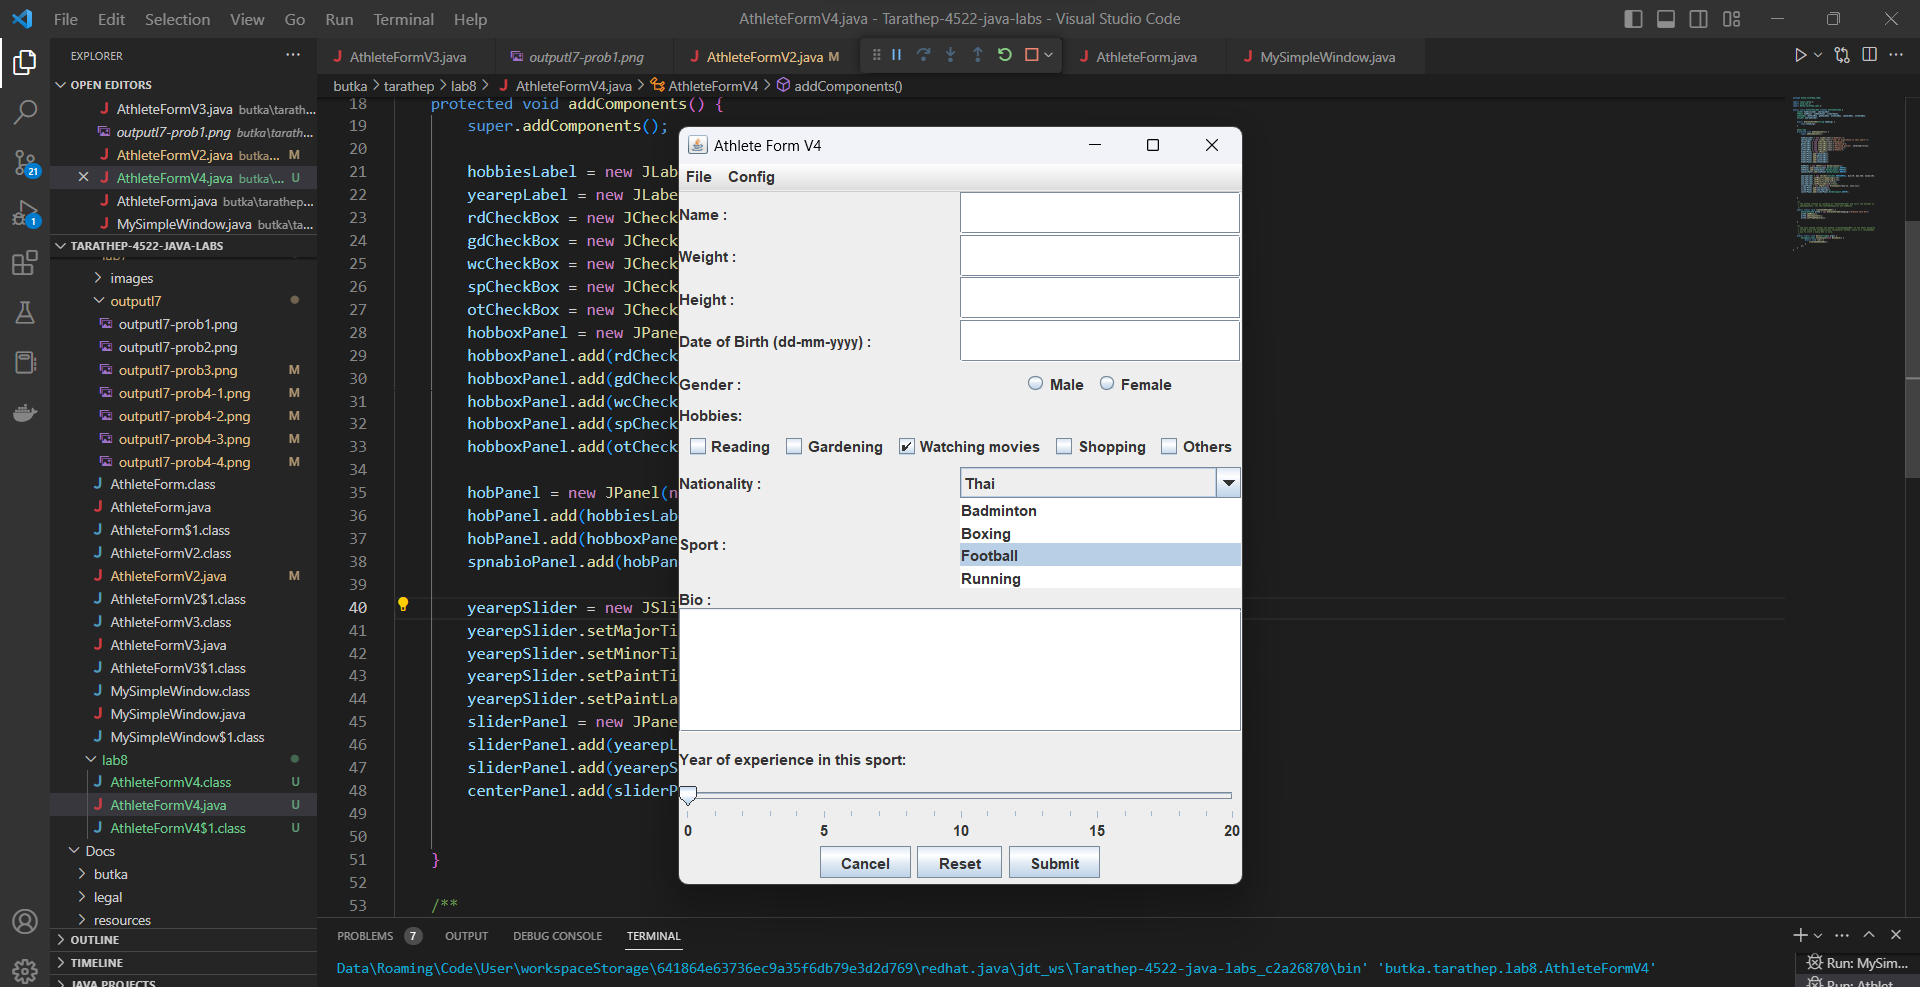
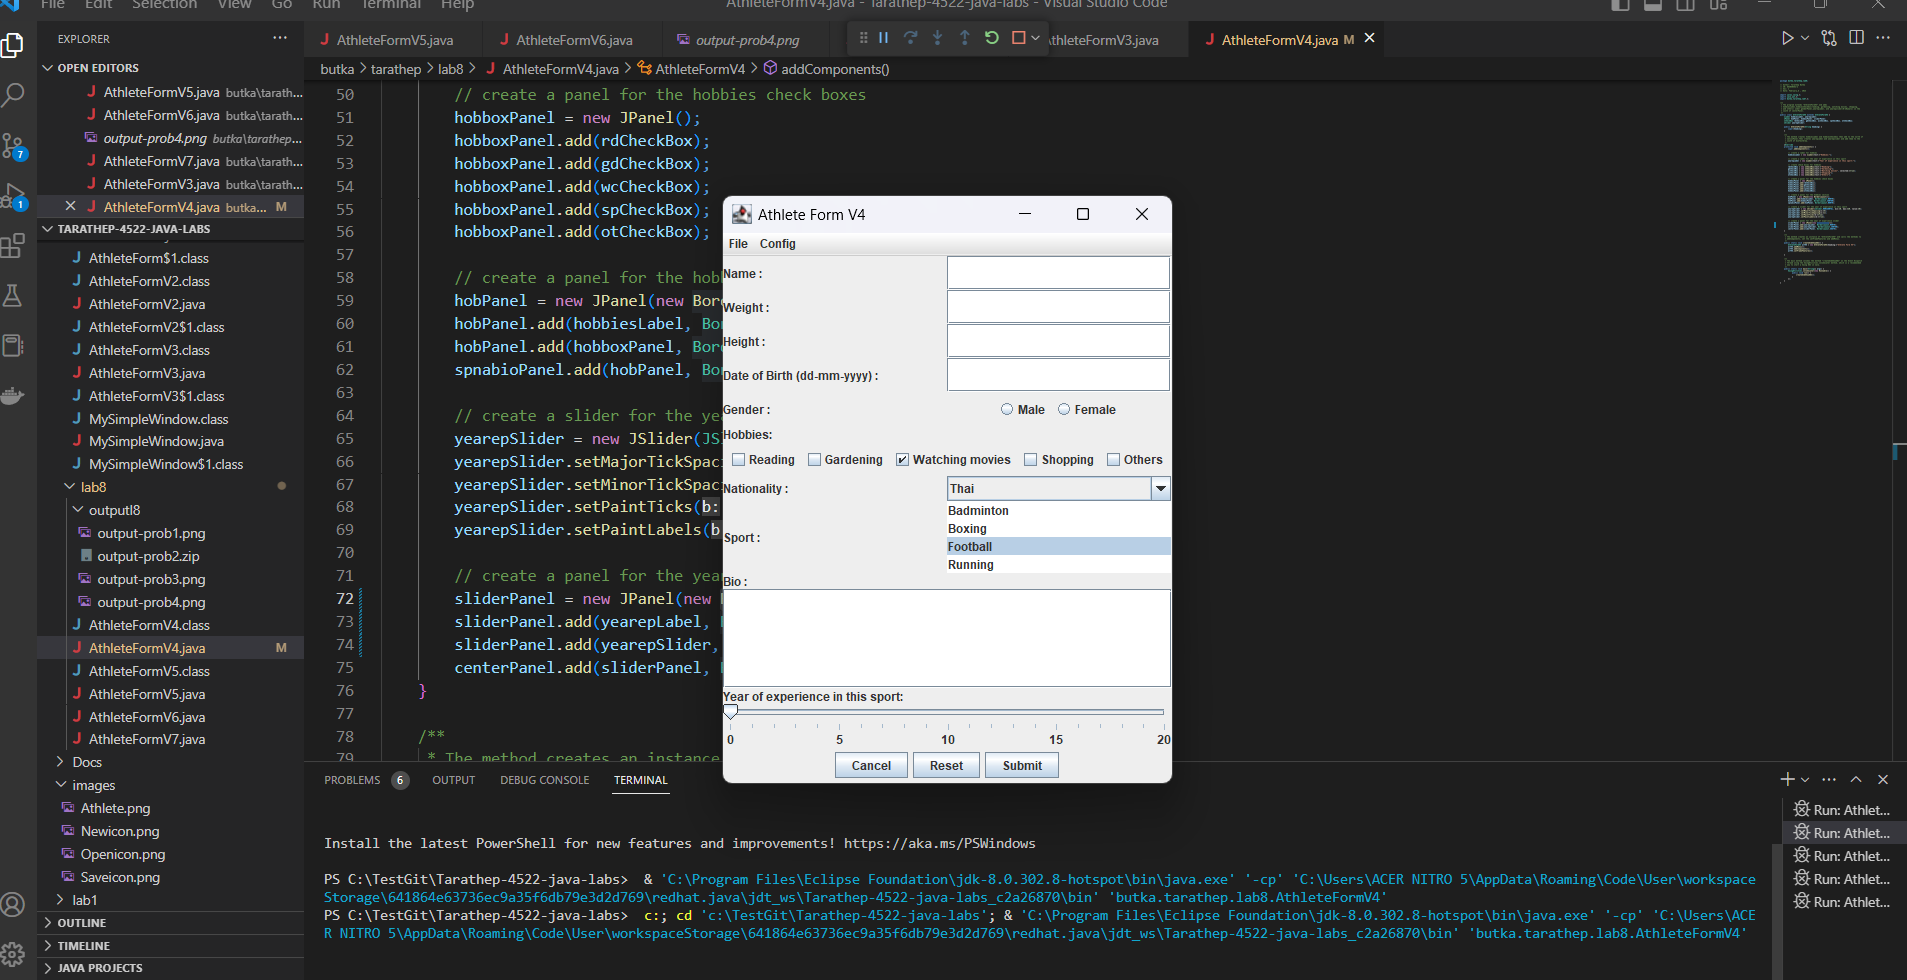
lab8

diff --git a/butka/tarathep/lab8/AthleteFormV4.java b/butka/tarathep/lab8/AthleteFormV4.java
@@ -69,9 +69,9 @@ public class AthleteFormV4 extends AthleteFormV3 {
         yearepSlider.setPaintLabels(true);
 
         // create a panel for the year of experience slider
-        sliderPanel = new JPanel(new GridLayout(2,1));
-        sliderPanel.add(yearepLabel);
-        sliderPanel.add(yearepSlider);
+        sliderPanel = new JPanel(new BorderLayout());
+        sliderPanel.add(yearepLabel, BorderLayout.NORTH);
+        sliderPanel.add(yearepSlider, BorderLayout.CENTER);
         centerPanel.add(sliderPanel, BorderLayout.SOUTH);
     }
 
